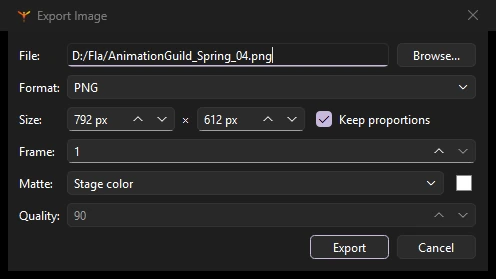
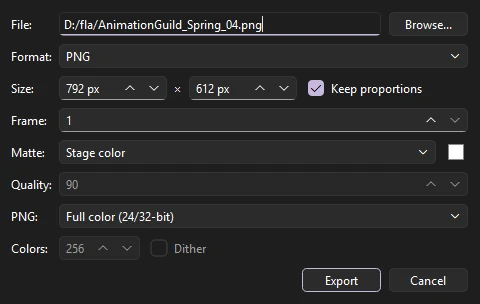
Docs: retake screenshots and add publish, shortcuts, theme and more

diff --git a/docs/workspace.html b/docs/workspace.html
@@ -20,14 +20,13 @@
 <p class="lead">Phoenix keeps the stage in the middle and everything that acts on it around the edges. This page names each area and the panels you can open.</p>
 
 <figure>
-  <img src="assets/shots/workspace-annotated.webp" alt="The Phoenix window with numbered markers on the menu bar, toolbox, outliner, edit bar, stage, timeline header, layers list, frame grid and panel dock" width="1704" height="1061">
+  <img src="assets/shots/workspace-annotated.webp" alt="The Phoenix window with numbered markers on the menu bar, Tools panel, edit bar, stage, timeline header, layers list, frame grid and panel dock" width="1704" height="1061">
   <figcaption>The default layout. The numbers match the list below.</figcaption>
 </figure>
 
 <ol>
   <li><strong>Menu bar</strong>: File, Edit, Insert, Modify, View, Control, Window and Help.</li>
   <li><strong>Tools panel</strong>: drawing and editing tools, the stroke and fill colors, and the Object Drawing switch.</li>
-  <li><strong>Outliner</strong>: the document as a tree, from scenes and layers down to individual shapes. It is closed until you open it from <span class="menu-path">Window &rsaquo; Outliner</span>.</li>
   <li><strong>Edit bar</strong>: where you are in the document (the scene, and any symbol you have opened), with a Back button and the <strong>Edit Symbols</strong> list. When more than one document is open, their tabs sit above it.</li>
   <li><strong>Stage</strong>: the visible area of your animation, on a gray pasteboard where you can park artwork off screen.</li>
   <li><strong>Timeline header</strong>: the current frame, frame rate and time, the playback controls, onion skinning and looping.</li>
@@ -45,7 +44,7 @@
 <p>To rearrange the tools, choose <span class="menu-path">Window &rsaquo; Edit Toolbar...</span>, or right-click the Tools panel and choose <strong>Edit Toolbar...</strong>. Drag a tool into a slot to group it there, between slots to give it a slot of its own, or under <strong>Hidden</strong> to take it off the panel; a hidden tool still works by its key. The first tool in a slot is the one shown. <strong>Add Line</strong> adds a divider between sections, and <strong>Reset</strong> puts back Phoenix's own layout.</p>
 
 <div class="split">
-  <figure class="inline" style="margin:0"><img src="assets/shots/toolbox.webp" alt="The toolbox column with the shape slot's flyout open, listing Rectangle, Oval, Rectangle Primitive, Oval Primitive and PolyStar" width="236" height="632"></figure>
+  <figure class="inline" style="margin:0"><img src="assets/shots/toolbox.webp" alt="The Tools panel with the shape slot's flyout open, listing Rectangle, Oval, Rectangle Primitive, Oval Primitive and PolyStar" width="302" height="837"></figure>
   <div>
     <p>Below the tools are:</p>
     <ul>
@@ -70,8 +69,8 @@
 </dl>
 
 <div class="tool-grid">
-  <figure style="margin:0"><img src="assets/shots/object-instance.webp" alt="Object tab for a graphic symbol instance, showing Instance, Position and Size, Color Effect, Display and Looping sections" width="304" height="555"><figcaption>Object tab for a symbol instance</figcaption></figure>
-  <figure style="margin:0"><img src="assets/shots/tool-brush.webp" alt="Tool tab for the Flow Brush, with size, pressure, velocity, taper, smoothing and brush mode options" width="304" height="530"><figcaption>Tool tab for the Flow Brush</figcaption></figure>
+  <figure style="margin:0"><img src="assets/shots/object-instance.webp" alt="Object tab for a graphic symbol instance, showing Instance, Position and Size, Color Effect, Display and Looping sections" width="391" height="573"><figcaption>Object tab for a symbol instance</figcaption></figure>
+  <figure style="margin:0"><img src="assets/shots/tool-brush.webp" alt="Tool tab for the Flow Brush, with size, pressure, velocity, taper, smoothing and brush mode options" width="391" height="817"><figcaption>Tool tab for the Flow Brush</figcaption></figure>
 </div>
 
 <h3>Hot text</h3>
@@ -94,6 +93,10 @@
 <h2>Other panels</h2>
 
 <p>Every panel opens from the <strong>Window</strong> menu, which ticks the ones that are open. Choosing an open panel that is in view closes it; choosing one that is closed, or hidden behind another tab, brings it to the front. The keys work with the menu closed too.</p>
+
+<figure class="narrow">
+  <img src="assets/shots/menu-window.webp" alt="The Window menu: Workspaces, the panels with their keys, Motion Presets, Document Brushes, Render Queue, Hide Panels, Theme and Edit Toolbar" width="227" height="693">
+</figure>
 
 <table>
   <thead><tr><th>Panel</th><th>Key</th><th>Use it to</th></tr></thead>
@@ -125,7 +128,7 @@
 <p>The Window menu also opens <a href="tweens.html#motion-presets">Motion Presets</a>, <a href="drawing-tools.html#paint-brush">Document Brushes</a> and the <a href="export.html#render-queue">Render Queue</a>, and has <strong>Workspaces</strong>, <strong>Hide Panels</strong>, <strong>Theme</strong> and <strong>Edit Toolbar...</strong>, described below.</p>
 
 <figure class="narrow">
-  <img src="assets/shots/menu-view.webp" alt="The View menu, with the light table, camera view, scene and onion skin options, rulers, guides, zoom and snapping" width="275" height="672">
+  <img src="assets/shots/menu-view.webp" alt="The View menu, with the light table, camera view, scene and onion skin options, rulers, guides, zoom and snapping" width="281" height="600">
   <figcaption>The View menu controls what the stage shows.</figcaption>
 </figure>
 
@@ -161,6 +164,10 @@
 <p><span class="menu-path">Window &rsaquo; Theme</span> sets the colors of Phoenix's window. <strong>Follow System</strong> (the default) is dark or light as your system is; <strong>Dark</strong> and <strong>Light</strong> stay as they are; <strong>Turquoise</strong> is a built-in example of a theme of its own. Themes you save are listed after them.</p>
 
 <p>Choose <span class="menu-path">Window &rsaquo; Theme &rsaquo; Edit Theme...</span> to make your own. Changes show on the window as you make them.</p>
+
+<figure class="narrow">
+  <img src="assets/shots/theme-editor.webp" alt="Edit Theme dialog with Start from, Mode, Font size and UI scale above a list of color roles for the window and the timeline" width="440" height="640">
+</figure>
 
 <dl class="defs">
   <dt>Start from</dt><dd>The theme to begin with.</dd>
@@ -207,8 +214,7 @@
 </ul>
 
 <div class="tool-grid">
-  <figure style="margin:0"><img src="assets/shots/menu-layer.webp" alt="Layer context menu" width="112" height="231"><figcaption>Layer menu</figcaption></figure>
-  <figure style="margin:0"><img src="assets/shots/menu-frames.webp" alt="Frames context menu" width="288" height="426"><figcaption>Frames menu</figcaption></figure>
+  <figure style="margin:0"><img src="assets/shots/menu-layer.webp" alt="Layer context menu" width="133" height="354"><figcaption>Layer menu</figcaption></figure>
 </div>
 
 </article>

diff --git a/docs/export.html b/docs/export.html
@@ -20,7 +20,7 @@
 <p class="lead">Exports render through the same drawing code as the stage, so what you see is what you get. All export commands are under <span class="menu-path">File &rsaquo; Export</span>.</p>
 
 <figure class="narrow">
-  <img src="assets/shots/menu-file-export.webp" alt="File, Export submenu: Export to SVG, Export Image, Export Movie" width="195" height="78">
+  <img src="assets/shots/menu-file-export.webp" alt="File, Export submenu: Export to SVG, Export Image, Export Movie, Export Sprite Sheet, Export Shots and Export SWF Movie" width="219" height="150">
 </figure>
 
 <h2>Export Movie</h2>
@@ -28,7 +28,7 @@
 <p>Choose <span class="menu-path">File &rsaquo; Export &rsaquo; Export Movie...</span> (<kbd>Ctrl</kbd>+<kbd>Alt</kbd>+<kbd>Shift</kbd>+<kbd>S</kbd>) to render a range of frames.</p>
 
 <div class="split">
-  <figure style="margin:0"><img src="assets/shots/export-movie.webp" alt="Export Movie dialog with format, codec, file, size, frame range, options, area, GIF colors, SVG options, layers and scenes" width="341" height="554"></figure>
+  <figure style="margin:0"><img src="assets/shots/export-movie.webp" alt="Export Movie dialog with format, codec, file, size, frame range, options, area, GIF colors, SVG options, layers and scenes" width="341" height="524"></figure>
   <dl class="defs" style="grid-template-columns:1fr">
     <dt>Format</dt><dd>What to make. See the table below.</dd>
     <dt>File</dt><dd>Where to save it. <strong>Browse...</strong> picks a location.</dd>
@@ -66,7 +66,7 @@
 <p><span class="menu-path">File &rsaquo; Export &rsaquo; Export Image...</span> renders a single frame.</p>
 
 <figure>
-  <img src="assets/shots/export-image.webp" alt="Export Image dialog with file, format, size, frame, matte and quality" width="496" height="279">
+  <img src="assets/shots/export-image.webp" alt="Export Image dialog with file, format, size, frame, matte and quality" width="480" height="304">
 </figure>
 
 <dl class="defs">
@@ -91,11 +91,19 @@
 
 <p><span class="menu-path">File &rsaquo; Publish Settings...</span> (<kbd>Ctrl</kbd>+<kbd>Shift</kbd>+<kbd>F12</kbd>) chooses what <span class="menu-path">File &rsaquo; Publish</span> (<kbd>Shift</kbd>+<kbd>F12</kbd>) writes, beside the document: an SWF movie, an HTML page, and PNG, JPEG, GIF and SVG images, each named after the document or with a name of its own. Images take the stage's size or one of their own. PNG can be 24-bit with alpha (a clear background), 24-bit, or 8-bit with a number of colors; JPEG has a quality and can be progressive; GIF can be still or animated, looping forever, playing once or repeating a number of times, with a number of colors; SVG can include hidden layers and embed its images or write them beside it.</p>
 
+<figure class="narrow">
+  <img src="assets/shots/publish-settings.webp" alt="Publish Settings dialog with the formats to publish and their file names, the image size, and PNG, JPEG, GIF and SVG options" width="496" height="602">
+</figure>
+
 <p>Still images show the frame labeled <code>#Static</code>, or else the first frame. The HTML page shows the SWF movie, or else the first image published. The settings are kept in the FLA file's own publish settings, so a file that was set up to publish elsewhere publishes the same from Phoenix, and every setting Phoenix does not use is kept unchanged.</p>
 
 <h2 id="sprite-sheets">Sprite sheets</h2>
 
 <p><span class="menu-path">File &rsaquo; Export &rsaquo; Export Sprite Sheet...</span> lays the scene's frames out on one PNG for a game engine. To make a sheet of one symbol, right-click it in the library and choose <strong>Generate Sprite Sheet...</strong>; its frames are drawn on their own, each the size of everything the symbol draws over them. The preview updates as you change:</p>
+
+<figure>
+  <img src="assets/shots/sprite-sheet.webp" alt="Export Sprite Sheet dialog with frames, scale, layout, padding, trim and data options beside a preview of the sheet" width="1070" height="460">
+</figure>
 
 <dl class="defs">
   <dt>Frames, Scale</dt><dd>Which frames, and how big, as a percentage.</dd>

diff --git a/docs/drawing-tools.html b/docs/drawing-tools.html
@@ -36,7 +36,7 @@
 </dl>
 
 <figure class="narrow">
-  <img src="assets/shots/tool-rect.webp" alt="Tool tab for the Rectangle tool with fill, stroke, stroke size, style, cap, join, scale and corner radius" width="304" height="461">
+  <img src="assets/shots/tool-rect.webp" alt="Tool tab for the Rectangle tool with fill, stroke, stroke size, style, cap, join, scale and corner radius" width="391" height="545">
   <figcaption>The Rectangle tool's settings.</figcaption>
 </figure>
 
@@ -97,7 +97,7 @@
 <p>One toolbox slot holds the shape tools. Press and hold it to choose.</p>
 
 <figure class="narrow">
-  <img src="assets/shots/flyout-shapes.webp" alt="Flyout listing Rectangle (R), Oval (O), Rectangle Primitive, Oval Primitive and PolyStar (Y)" width="182" height="126">
+  <img src="assets/shots/flyout-shapes.webp" alt="Flyout listing Rectangle (R), Oval (O), Rectangle Primitive (Shift+R), Oval Primitive (Shift+O) and PolyStar" width="242" height="126">
 </figure>
 
 <table>
@@ -134,7 +134,7 @@
 <p>Press <kbd>Shift</kbd>+<kbd>Y</kbd> and draw freehand. Phoenix shows how your line will be fitted as you draw, and fits it when you release.</p>
 
 <div class="split">
-  <figure style="margin:0"><img src="assets/shots/tool-pencil.webp" alt="Pencil tool settings: pencil mode, smoothing, connect lines and recognize shapes" width="304" height="519"></figure>
+  <figure style="margin:0"><img src="assets/shots/tool-pencil.webp" alt="Pencil tool settings: pencil mode, smoothing, connect lines and recognize shapes" width="391" height="603"></figure>
   <div>
     <dl class="defs" style="grid-template-columns:1fr">
       <dt>Pencil mode</dt>
@@ -155,7 +155,7 @@
 <p>The brush slot holds three brushes: the Nib Brush (<kbd>B</kbd>), the Flow Brush (<kbd>Shift</kbd>+<kbd>B</kbd>) and the Ink Brush. All three paint filled shapes, use your tablet's pen pressure, and remember their settings. Hold <kbd>Shift</kbd> to paint a straight stroke across or down.</p>
 
 <figure class="narrow">
-  <img src="assets/shots/flyout-brushes.webp" alt="Flyout listing Flow Brush (B), Nib Brush and Ink Brush" width="147" height="78">
+  <img src="assets/shots/flyout-brushes.webp" alt="Flyout listing Flow Brush (Shift+B), Nib Brush (B) and Ink Brush" width="196" height="78">
 </figure>
 
 <h3>Flow Brush</h3>
@@ -208,6 +208,10 @@
 <h3>Brush Properties and presets</h3>
 
 <p>Click <strong>Brush Properties and Presets...</strong> on the Tool tab of the Properties panel to open every setting of the brush in hand. Changes apply as you make them, and the window can stay open while you paint.</p>
+
+<figure>
+  <img src="assets/shots/brush-properties.webp" alt="Brush Properties dialog: a list of presets with their strokes, a stroke preview, and the Tip page with shape, size, roundness and angle" width="697" height="666">
+</figure>
 
 <p><strong>Presets</strong> are named brushes. Each brush keeps its own list, and the bitmap brush keeps another. Each preset shows the stroke it paints: choose <strong>Small Thumbnails</strong>, <strong>Large Thumbnails</strong> or <strong>Stroke View</strong> above the list. Click a preset to use it. <strong>New...</strong> keeps the brush as it is now as a preset; <strong>Rename...</strong> and <strong>Delete</strong> do what they say. <strong>Export...</strong> writes the list to a <code>.phxbrushes</code> file to share, and <strong>Import...</strong> adds the presets in one. A preset holds the tip and its dynamics, and also the texture, the bitmap brush's settings and the painting options.</p>
 

diff --git a/docs/color.html b/docs/color.html
@@ -35,6 +35,10 @@
 
 <p>Open it from the Color tab in the panel dock, or <span class="menu-path">Window &rsaquo; Color</span> (<kbd>Ctrl</kbd>+<kbd>Shift</kbd>+<kbd>F9</kbd>). The <strong>Fill</strong> list chooses the type of fill new artwork gets:</p>
 
+<figure class="narrow">
+  <img src="assets/shots/color-panel-solid.webp" alt="Color panel set to Solid Color, with the hex value, R, G and B channels and alpha" width="391" height="240">
+</figure>
+
 <dl class="defs">
   <dt>None</dt><dd>No fill.</dd>
   <dt>Solid Color</dt><dd>A single color, with its hex value and its channels.</dd>
@@ -50,7 +54,7 @@
 <h3>Editing a gradient</h3>
 
 <figure class="narrow">
-  <img src="assets/shots/color-panel.webp" alt="Color panel set to Linear Gradient, with Flow and Linear RGB options, a white to black gradient bar and a selected color stop" width="304" height="215">
+  <img src="assets/shots/color-panel.webp" alt="Color panel set to Linear Gradient, with Flow and Linear RGB options, a white to black gradient bar and a selected color stop" width="391" height="255">
 </figure>
 
 <ul>
@@ -75,7 +79,7 @@
 <h2>Swatches</h2>
 
 <figure class="narrow">
-  <img src="assets/shots/swatches-panel.webp" alt="The Swatches panel showing a grid of color swatches" width="304" height="270">
+  <img src="assets/shots/swatches-panel.webp" alt="The Swatches panel showing a grid of color swatches" width="391" height="255">
 </figure>
 
 <p>The Swatches panel (<span class="menu-path">Window &rsaquo; Swatches</span>, <kbd>Ctrl</kbd>+<kbd>F9</kbd>) shows the document's saved colors. Click a swatch to make it the fill color, or the stroke color when the panel's <strong>Stroke</strong> option is checked. <strong>Add Swatch</strong> saves the current fill color. Right-click a swatch to duplicate or delete it. Swatches are saved with the document, including FLA files.</p>

diff --git a/docs/preferences.html b/docs/preferences.html
@@ -37,6 +37,10 @@
 
 <p>Choose <span class="menu-path">Edit &rsaquo; Keyboard Shortcuts</span> (<kbd>Ctrl</kbd>+<kbd>Alt</kbd>+<kbd>Shift</kbd>+<kbd>K</kbd>) to see every menu command and tool with its key. Type in the search box to find a command by name or by key. Select a command, click in the <strong>Shortcut</strong> box and press the keys; a key another command had is taken from it, and the dialog says which. Keys given to two commands show in red, and keys you have changed in bold. <strong>Clear</strong> takes the key off the selected command, <strong>Default</strong> gives it its own key back, and <strong>Reset All</strong> gives every command its own.</p>
 
+<figure>
+  <img src="assets/shots/keyboard-shortcuts.webp" alt="Keyboard Shortcuts dialog with the Set list, a search field, every command with its key, and Clear and Default buttons" width="620" height="560">
+</figure>
+
 <p>Save your keys as a named set with <strong>Save As</strong>, switch between sets from the <strong>Set</strong> list, and remove a set of your own with <strong>Delete</strong>. <strong>Export</strong> and <strong>Import</strong> pass a set to another machine as a JSON file.</p>
 
 <p>The <strong>Set</strong> list starts with two built-in sets. <strong>Phoenix Defaults</strong> gives every command its own key. <strong>Animate Standard</strong> uses the standard keys of Animate shortcut files for the commands Phoenix has. Most are the same as Phoenix's; among those that differ, the Flow Brush is <kbd>B</kbd>, the Nib Brush is <kbd>Shift</kbd>+<kbd>B</kbd>, <span class="menu-path">View &rsaquo; Pasteboard</span> is <kbd>Ctrl</kbd>+<kbd>Shift</kbd>+<kbd>W</kbd> and <span class="menu-path">View &rsaquo; Snap to Objects</span> is <kbd>Ctrl</kbd>+<kbd>Shift</kbd>+<kbd>/</kbd>. A key the set gives one command is taken from any command that had it.</p>

diff --git a/docs/get-started.html b/docs/get-started.html
@@ -76,7 +76,7 @@
 <p>When you start Phoenix without a file, it opens the <strong>Welcome to Phoenix</strong> window. Pick a size under <strong>Create New</strong> to start a document, choose a file under <strong>Recent Files</strong>, or click <strong>Open...</strong> to browse. <strong>More Presets...</strong> opens the full <a href="documents.html#create-a-document">New Document</a> dialog.</p>
 
 <figure>
-  <img src="assets/shots/start-screen.webp" alt="The Welcome to Phoenix window, with document presets on the left and recent files on the right" width="876" height="559">
+  <img src="assets/shots/start-screen.webp" alt="The Welcome to Phoenix window, with document presets on the left and recent files on the right" width="860" height="520">
   <figcaption>The start screen. Turn off <strong>Show at startup</strong> to reopen your most recent file instead.</figcaption>
 </figure>
 
@@ -98,6 +98,10 @@
 <h2>Recovering after a crash</h2>
 
 <p>Phoenix saves a recovery copy of your work every two minutes while it has unsaved changes. If Phoenix closes unexpectedly, the next time it starts it opens <strong>Recover Unsaved Work</strong>, which lists every copy it kept, newest first, with the document's name and when it was saved. Hover over one to see where the document came from.</p>
+
+<figure class="narrow">
+  <img src="assets/shots/recover-dialog.webp" alt="Recover Unsaved Work dialog listing kept copies, newest first, with Recover, Discard, Discard All and Later" width="364" height="284">
+</figure>
 
 <dl class="defs">
   <dt>Recover</dt><dd>Opens the selected copy, back at its original location and marked unsaved. Save it to keep it. Double-clicking a copy does the same.</dd>

diff --git a/docs/timeline.html b/docs/timeline.html
@@ -20,7 +20,7 @@
 <p class="lead">The timeline lays out your animation in two directions: layers stacked from top to bottom, and frames running from left to right.</p>
 
 <figure>
-  <img src="assets/shots/timeline-folders.webp" alt="The timeline with a list of layers on the left, including an open HATS folder with four hat layers, and the frame grid on the right" width="1362" height="268">
+  <img src="assets/shots/timeline-folders.webp" alt="The timeline with a list of layers on the left, including an open HATS folder with four hat layers, and the frame grid on the right" width="1266" height="335">
   <figcaption>Layers on the left, the frame grid on the right. The HATS folder is open, showing the layers inside it.</figcaption>
 </figure>
 
@@ -94,7 +94,7 @@
 <p>Right-click a layer and choose <strong>Properties...</strong> to set several things at once:</p>
 
 <div class="split">
-  <figure style="margin:0"><img src="assets/shots/layer-properties.webp" alt="Layer Properties dialog with name, show and lock, layer type, outline color and view as outlines" width="260" height="391"></figure>
+  <figure style="margin:0"><img src="assets/shots/layer-properties.webp" alt="Layer Properties dialog with name, show and lock, layer type, outline color and view as outlines" width="341" height="384"></figure>
   <dl class="defs" style="grid-template-columns:1fr">
     <dt>Name, Show and Lock</dt><dd>The same as the controls in the layer row.</dd>
     <dt>Type</dt><dd><strong>Normal</strong>, <strong>Guide</strong>, <strong>Guided</strong>, <strong>Mask</strong>, <strong>Masked</strong> or <strong>Folder</strong>. See <a href="masks-guides.html">Masks and guides</a>.</dd>

diff --git a/docs/documents.html b/docs/documents.html
@@ -24,7 +24,7 @@
 <p>Choose <span class="menu-path">File &rsaquo; New...</span> (<kbd>Ctrl</kbd>+<kbd>N</kbd>). Pick a category on the left, then a preset. The details on the right fill in from the preset, and you can change any of them.</p>
 
 <figure>
-  <img src="assets/shots/new-document.webp" alt="The New Document dialog with categories on the left, preset tiles in the middle, and width, height, frame rate and stage color on the right" width="876" height="519">
+  <img src="assets/shots/new-document.webp" alt="The New Document dialog with categories on the left, preset tiles in the middle, and width, height, frame rate and stage color on the right" width="860" height="480">
   <figcaption>The New Document dialog. Double-click a preset to create the document straight away.</figcaption>
 </figure>
 
@@ -46,6 +46,10 @@
 <h2>Document settings</h2>
 
 <p>To change the settings of an open document, click an empty part of the stage with the Selection tool so the Properties panel shows the <strong>Doc</strong> tab.</p>
+
+<figure class="narrow">
+  <img src="assets/shots/document-settings.webp" alt="Document Settings dialog with units, stage size, Match Contents, Scale content with stage and a 3 by 3 anchor grid" width="416" height="272">
+</figure>
 
 <dl class="defs">
   <dt>W and H</dt><dd>The stage size in pixels.</dd>

diff --git a/docs/symbols.html b/docs/symbols.html
@@ -46,7 +46,7 @@
 </ol>
 
 <figure class="narrow">
-  <img src="assets/shots/convert-to-symbol.webp" alt="Convert to Symbol dialog with a name field, a type list and a 3 by 3 registration grid" width="216" height="194">
+  <img src="assets/shots/convert-to-symbol.webp" alt="Convert to Symbol dialog with a name field, a type list and a 3 by 3 registration grid" width="200" height="155">
 </figure>
 
 <p>The selected artwork is replaced by an instance of the new symbol. Phoenix remembers the type and registration you chose for next time. Names must be unique in the library.</p>
@@ -65,7 +65,7 @@
 </dl>
 
 <figure>
-  <img src="assets/shots/edit-in-place.webp" alt="A flower character symbol open for editing in place, with the other characters dimmed and the edit bar reading Scene 1 then fLOWER_01" width="1100" height="740">
+  <img src="assets/shots/edit-in-place.webp" alt="A flower character symbol open for editing in place, with the other characters dimmed and the edit bar reading Scene 1 then fLOWER_01" width="1266" height="664">
   <figcaption>Editing a symbol in place. The edit bar shows the path from the scene into the symbol.</figcaption>
 </figure>
 

diff --git a/docs/frames.html b/docs/frames.html
@@ -85,7 +85,7 @@
 <p>Click a keyframe and use the <strong>Label</strong> section of the Frame tab to name it. The <strong>Type</strong> list makes it a <strong>Name</strong> (a marker scripts can jump to), a <strong>Comment</strong> (a note for yourself), or an <strong>Anchor</strong>. Labels show in the timeline, which makes long scenes easier to find your way around.</p>
 
 <figure class="narrow">
-  <img src="assets/shots/frame-tab.webp" alt="Frame tab for frame 4 of layer EaseIn: label name and type, tweening with classic tween, ease, rotate, snap and sync, and span information" width="304" height="530">
+  <img src="assets/shots/frame-tab.webp" alt="Frame tab for frame 4 of layer EaseIn: label name and type, tweening with classic tween, ease, rotate, snap and sync, and span information" width="391" height="519">
   <figcaption>The Frame tab for a frame in the middle of a classic tween.</figcaption>
 </figure>
 

diff --git a/docs/drawing-models.html b/docs/drawing-models.html
@@ -76,7 +76,7 @@
 <p>With Object Drawing on, each shape you draw becomes a <strong>drawing object</strong>: a self-contained shape that never cuts or joins anything else. When selected, it shows a thin box rather than the dot pattern. You can stack drawing objects freely and change their order with <span class="menu-path">Modify &rsaquo; Arrange</span>.</p>
 
 <figure>
-  <img src="assets/shots/drawing-oval.webp" alt="A blue oval just drawn over the teal shape, with the Properties panel showing the shape's position, size, fill and stroke" width="1100" height="740">
+  <img src="assets/shots/drawing-oval.webp" alt="A blue oval just drawn over the teal shape, with the Properties panel showing the shape's position, size, fill, stroke, texture and shape options" width="1660" height="702">
   <figcaption>A newly drawn oval floats above the artwork until you deselect it.</figcaption>
 </figure>
 

diff --git a/docs/effects.html b/docs/effects.html
@@ -63,7 +63,7 @@
 <p>Filters add effects such as shadows and glows to movie clips and buttons. They appear in the <strong>Filters</strong> section of the Object tab.</p>
 
 <div class="split">
-  <figure style="margin:0"><img src="assets/shots/object-filters.webp" alt="Object tab for an instance with a Drop Shadow filter: blur, quality, strength, angle, distance, color and knockout options" width="304" height="810"></figure>
+  <figure style="margin:0"><img src="assets/shots/object-filters.webp" alt="Object tab for an instance with a Drop Shadow filter: blur, quality, strength, angle, distance, color, knockout, inner shadow and hide object, with Copy Filters, Paste Filters, Presets and Add Filter" width="391" height="847"></figure>
   <div>
     <ul>
       <li>Click <strong>Add Filter</strong> and choose one. An instance can have several, applied top to bottom.</li>
